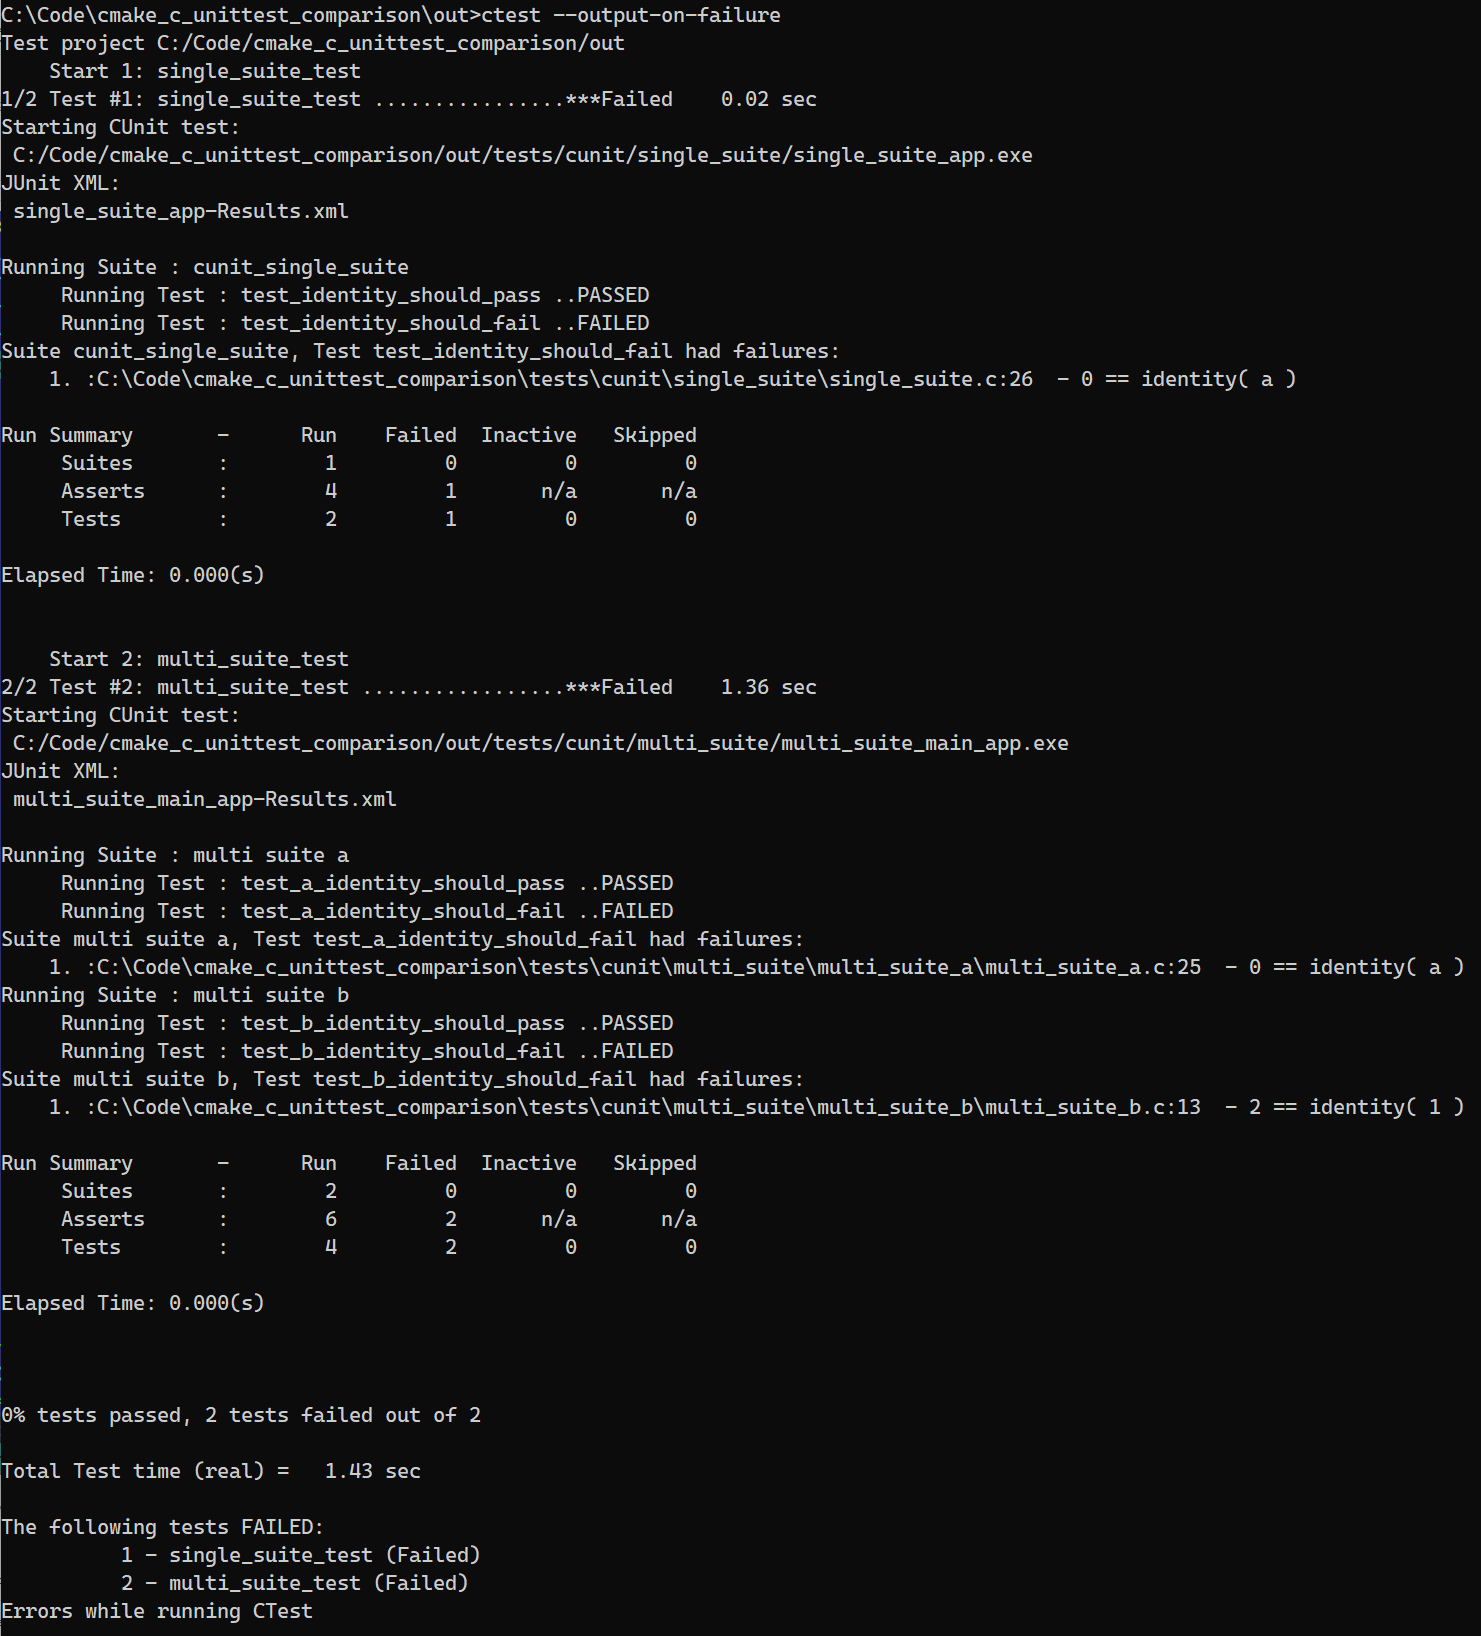
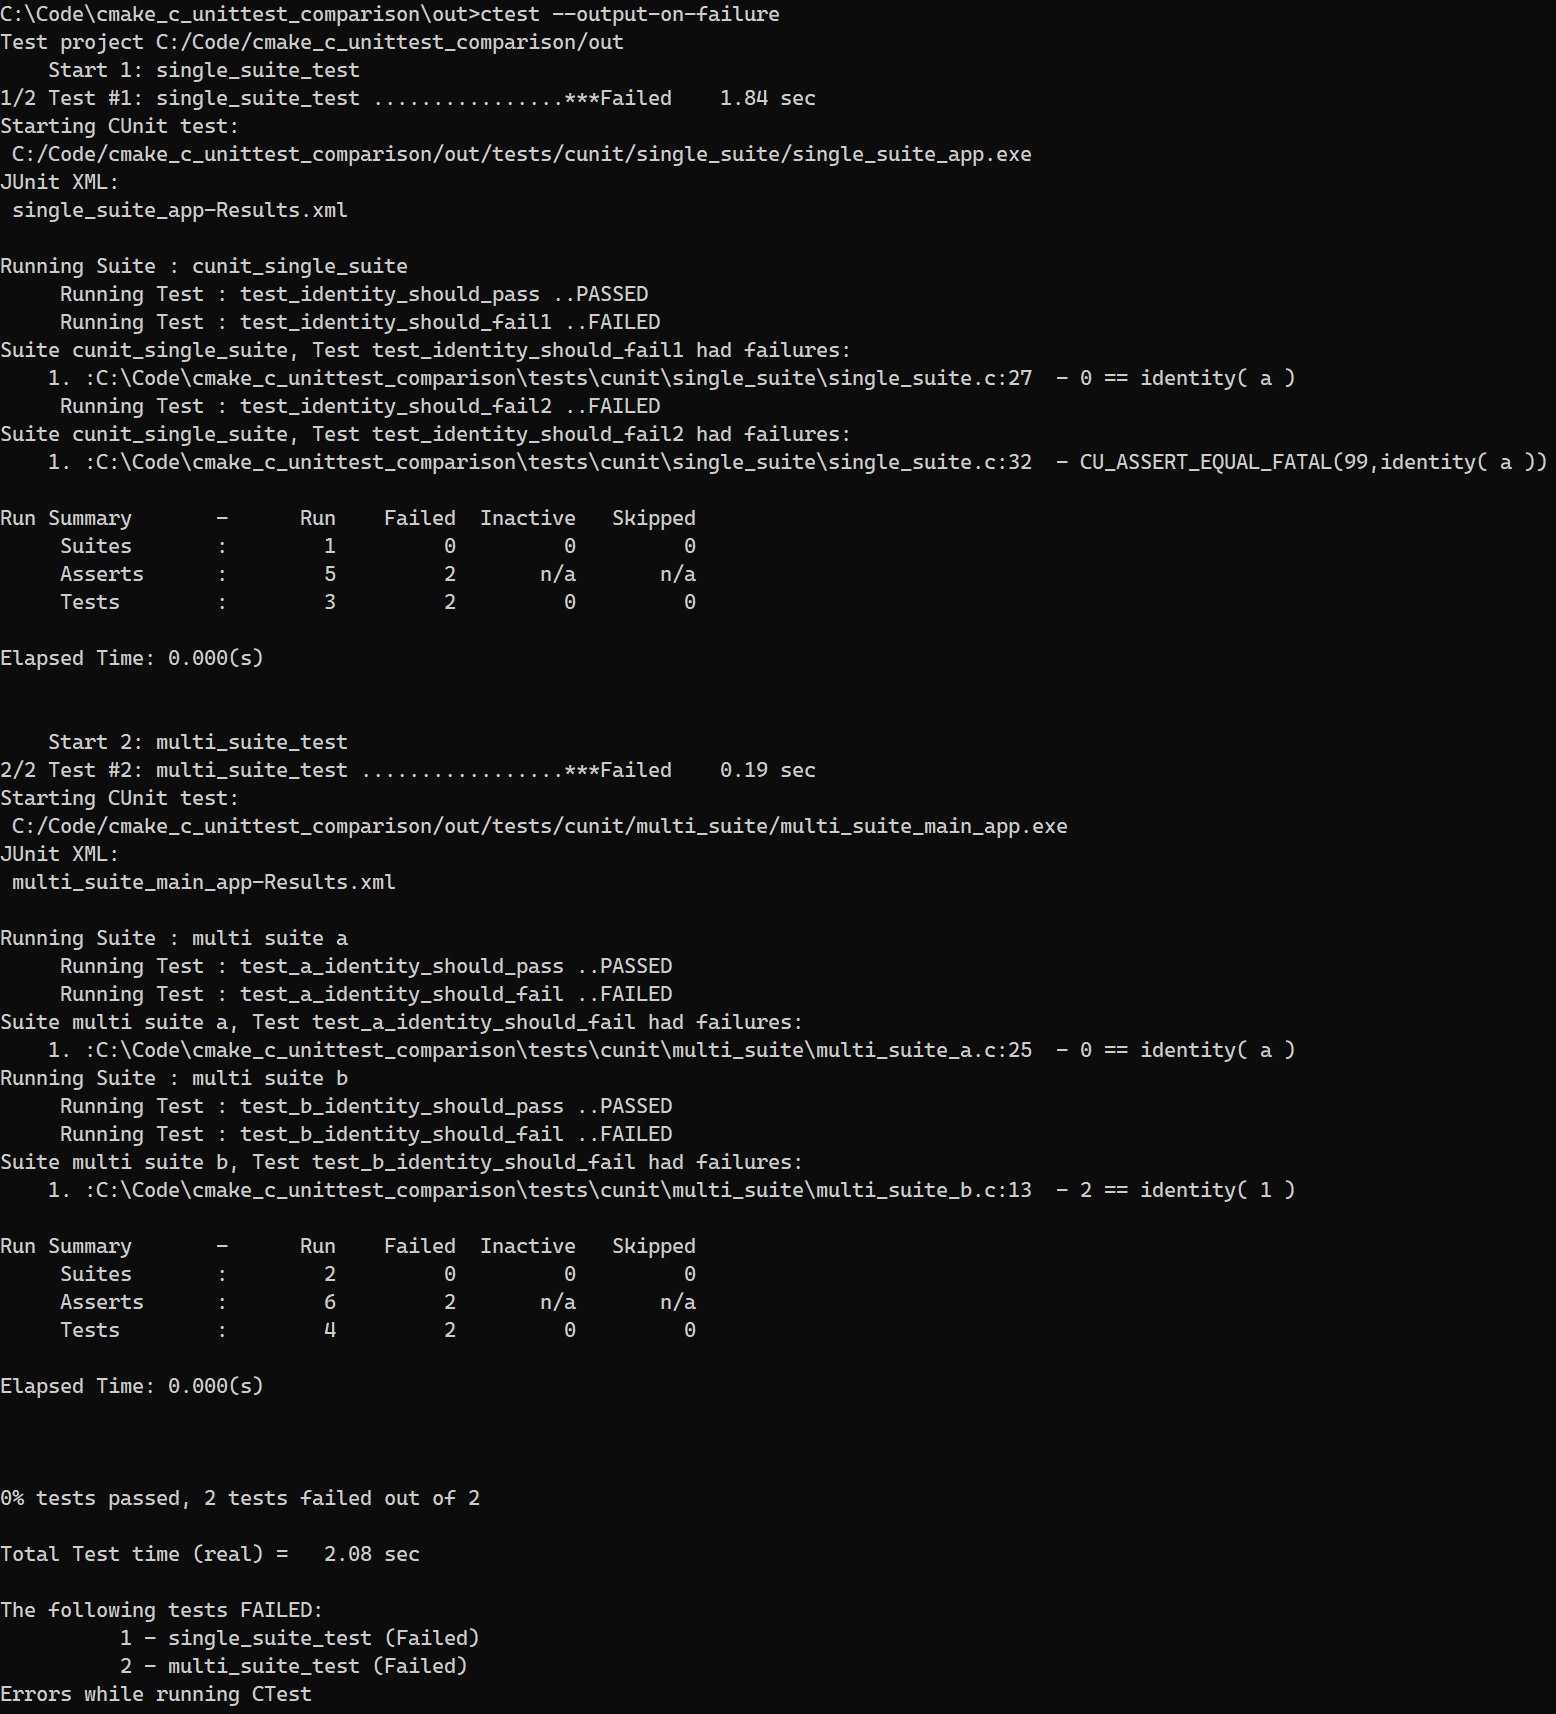
started on unity; updated cunit tests to include cu_assert_equal and to show missed fail output

Changed region(s): [[0.0, 0.0, 0.9939, 0.8105], [0.0, 0.8417, 0.3106, 0.9976], [0.9007, 0.6546, 0.9629, 0.6858]]

diff --git a/tests/cunit/single_suite/single_suite.c b/tests/cunit/single_suite/single_suite.c
@@ -1,4 +1,5 @@
 #include "CUnit/CUnitCI.h"
+#include "CUnit/CUnit.h"
 #include "utils.h"
 
 int a = 0;
@@ -9,21 +10,22 @@ CU_SUITE_SETUP() {
 }
 
 CU_SUITE_TEARDOWN() {
-    CU_ASSERT_FATAL( a == 1 );
+    CU_ASSERT( a == 1 );
     a = 0;
     return CUE_SUCCESS;
 }
 
 void test_identity_should_pass( void )
 {
-    CU_ASSERT_FATAL( 40 == identity( 40 ) );
-    CU_ASSERT_FATAL( 1 == identity( a ) );
+    CU_ASSERT( 40 == identity( 40 ) );
+    CU_ASSERT_EQUAL( 1, identity( a ) );
 }
 
 
 void test_identity_should_fail( void )
 {
-    CU_ASSERT_FATAL( 0 == identity( a ) );
+    CU_ASSERT( 0 == identity( a ) );
+    CU_ASSERT_EQUAL( 99, identity( a ) );
 }
 
 CUNIT_CI_RUN( "cunit_single_suite",

diff --git a/tests/cunit/multi_suite/multi_suite_a.c b/tests/cunit/multi_suite/multi_suite_a.c
@@ -10,19 +10,19 @@ CU_SUITE_SETUP() {
 }
 
 CU_SUITE_TEARDOWN() {
-    CU_ASSERT_FATAL( a == 2 );
+    CU_ASSERT( a == 2 );
     a = 0;
     return CUE_SUCCESS;
 }
 
 static void test_a_identity_should_pass( void )
 {
-    CU_ASSERT_FATAL( 2 == identity( a ) );
+    CU_ASSERT( 2 == identity( a ) );
 }
 
 static void test_a_identity_should_fail( void )
 {
-    CU_ASSERT_FATAL( 0 == identity( a ) );
+    CU_ASSERT( 0 == identity( a ) );
 }
 
 void register_suite_a( void )

diff --git a/tests/cunit/multi_suite/multi_suite_b.c b/tests/cunit/multi_suite/multi_suite_b.c
@@ -4,13 +4,13 @@
 
 static void test_b_identity_should_pass( void )
 {
-    CU_ASSERT_FATAL( 40 == identity( 40 ) );
+    CU_ASSERT( 40 == identity( 40 ) );
 }
 
 static void test_b_identity_should_fail( void )
 {
-    CU_ASSERT_FATAL( 2 == identity( 2 ) );
-    CU_ASSERT_FATAL( 2 == identity( 1 ) );
+    CU_ASSERT( 2 == identity( 2 ) );
+    CU_ASSERT( 2 == identity( 1 ) );
 }
 
 void register_suite_b( void )

diff --git a/README.md b/README.md
@@ -12,35 +12,36 @@ This is, obviously, a work in progress.
 
 ## 2. List of Candidates
 
-1. [Unity](http://www.throwtheswitch.org/unity)
-2. [GLib testing framework](https://docs.gtk.org/glib/testing.html)
-3. [cmocka](https://cmocka.org/)
-4. [µnit (munit)](https://nemequ.github.io/munit/)
-5. [ctest](https://github.com/bvdberg/ctest) (not the one included in CMake)
-6. [Cgreen](https://github.com/cgreen-devs/cgreen)
-7. [Criterion](https://github.com/Snaipe/Criterion/)
-8. [tau](https://github.com/jasmcaus/tau/)
-9. [libcester](https://github.com/exoticlibraries/libcester)
+1. [GLib testing framework](https://docs.gtk.org/glib/testing.html)
+2. [cmocka](https://cmocka.org/)
+3. [µnit (munit)](https://nemequ.github.io/munit/)
+4. [ctest](https://github.com/bvdberg/ctest) (not the one included in CMake)
+5. [Cgreen](https://github.com/cgreen-devs/cgreen)
+6. [Criterion](https://github.com/Snaipe/Criterion/)
+7. [tau](https://github.com/jasmcaus/tau/)
+8. [libcester](https://github.com/exoticlibraries/libcester)
 
 ## 3. Impressions
 
 ### 3.1 Cunit (Cunity fork)
 
-Websites:
+**Websites**:
 
 - fork homepage: <https://cunity.gitlab.io/cunit/>
 - fork repo: <https://gitlab.com/cunity/cunit/-/tree/master/>
 - original home: <https://cunit.sourceforge.net/example.html>
 
-Maintainers: single developer
+**Maintainers**: single developer
 
-Activity: inactive; besides a recent version bump, last commit was >1 year ago
+**Activity**: inactive; besides a recent version bump, last commit was >1 year ago.
 
-Maturity: long existing, mature code
+**Maturity**: long existing, mature code
 
-Documentation: not much, but enough for the simplest use case; beyond that, one needs to look at the code.
+**Popularity**: mentioned in multiple forum discussions; it's well known, I guess.
 
-CMake integration: very easy, project comes with own CMakeFile.txt; no special build dependencies
+**Documentation**: the new fork has some documentation for a simple case using the new CUnitCI API; there's documentation on the old website for the traditional API, but that requires a longer learning process.
+
+**CMake integration**: very easy, project comes with own CMakeFile.txt; no special build dependencies
 
 ```CMake
     set(CUNIT_DISABLE_EXAMPLES yes)
@@ -49,13 +50,79 @@ CMake integration: very easy, project comes with own CMakeFile.txt; no special b
     add_subdirectory(cunit/CUnit)
 ```
 
-Features: sufficient
+**Features**: sufficient
 
-- suite and pre-test setup / teardown functions
-- test context shared via global variables
-- easy to use with one executable / test code file  (see [single_suite](tests/cunit/single_suite/) example)
-- multiple tests / suites can be linked into one executable but this case isn't well documented (see [multi_suite](tests/cunit/multi_suite/) example)
+- [x] suite and pre-test setup / teardown functions
+- [x] test context shared via global variables
+- [x] easy to use with one executable / test code file  (see [single_suite](tests/cunit/single_suite/) example)
+- [x] multiple tests / suites can be linked into one executable but this case isn't well documented (see [multi_suite](tests/cunit/multi_suite/) example)
+- [x] failed tests show executed code
+- [ ] cannot include custom messages in failed test output
+- [ ] variable values not shown in failed tests
+- [ ] no direct support for mocking
 
-Output: terminal + XML
+**Output**: terminal + XML
 
 ![CUnit test result output](images/results_cunit.png)
+
+**Issues**:
+
+In case of multiple failing assertions in one test, only the last one's code is reported to the command line!:O See: only `CU_ASSERT_EQUAL( 99, identity( a ) )` is shown in [single_suite/test_identity_should_fail](tests/cunit/single_suite/single_suite.c). This means that it's better to use _FATAL asserts or single asserts per test.
+
+### 3.2 Unity
+
+**Websites**:
+
+- home: <http://www.throwtheswitch.org/unity>
+- repo: <https://github.com/ThrowTheSwitch/Unity>
+
+**Maintainers**:
+
+**Activity**:
+
+**Maturity**:
+
+**Popularity**:
+
+**Documentation**:
+
+**CMake integration**:
+
+**Features**:
+
+- [ ] aaa
+
+**Output**:
+
+![aaa]()
+
+**Issues**:
+
+### Template
+
+**Websites**:
+
+- home: <url>
+- repo: <url>
+
+**Maintainers**:
+
+**Activity**:
+
+**Maturity**:
+
+**Popularity**:
+
+**Documentation**:
+
+**CMake integration**:
+
+**Features**:
+
+- [ ] feature
+
+**Output**:
+
+![image]()
+
+**Issues**:
